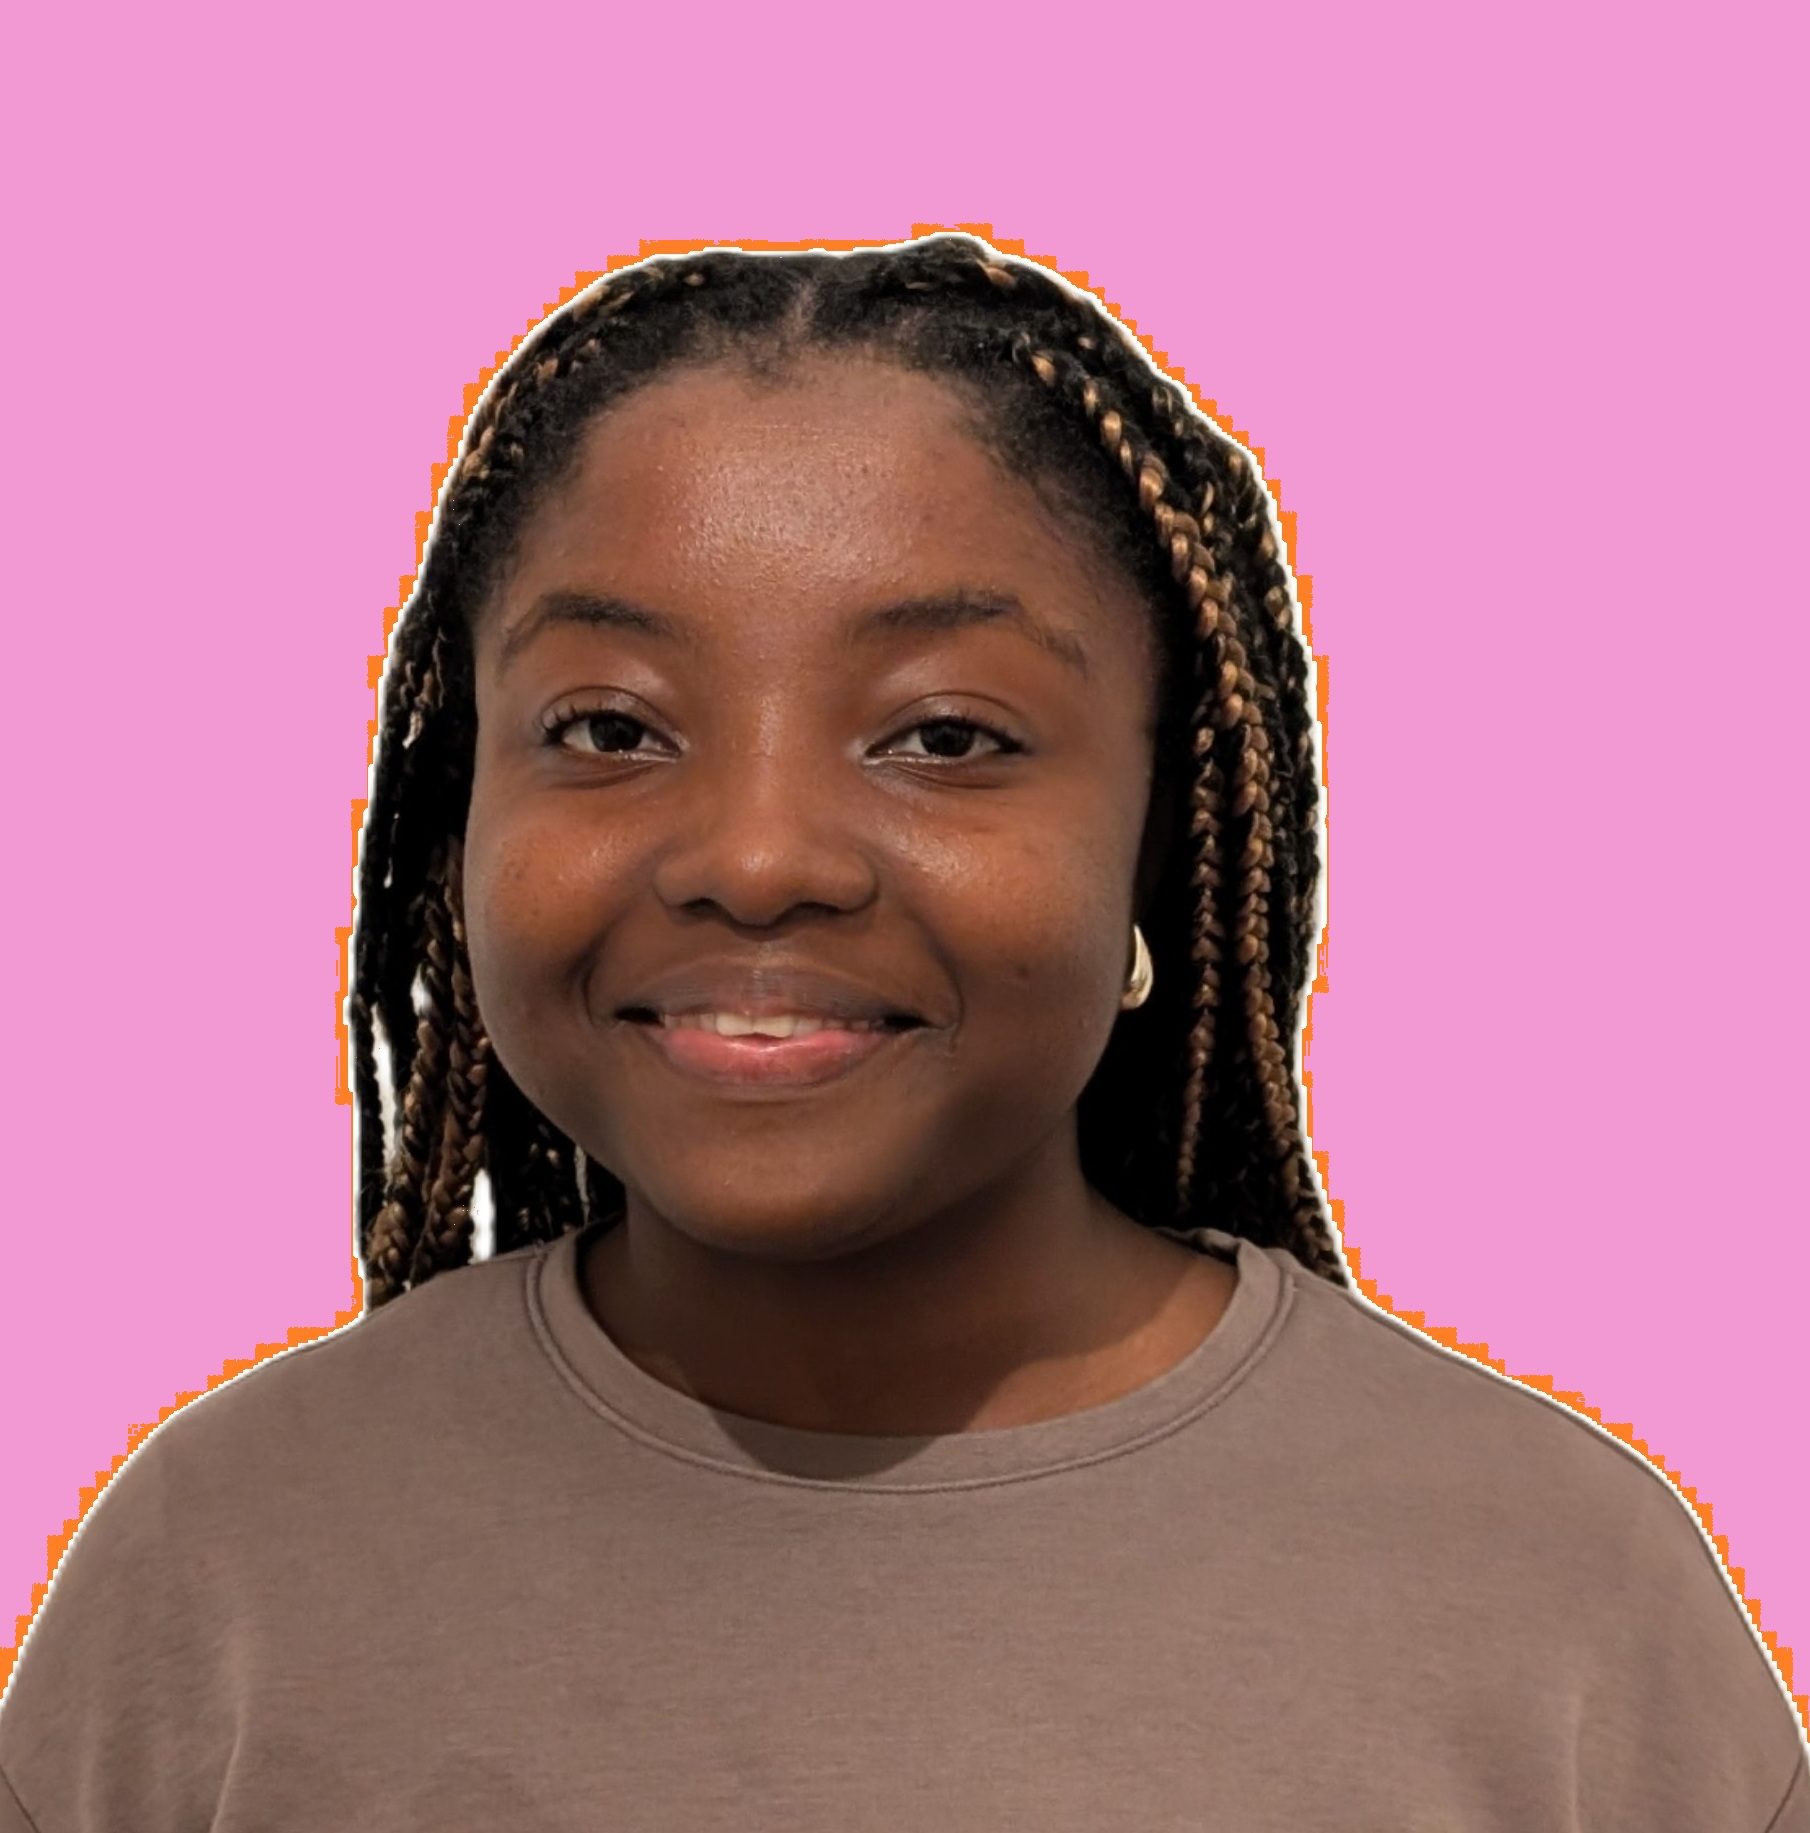
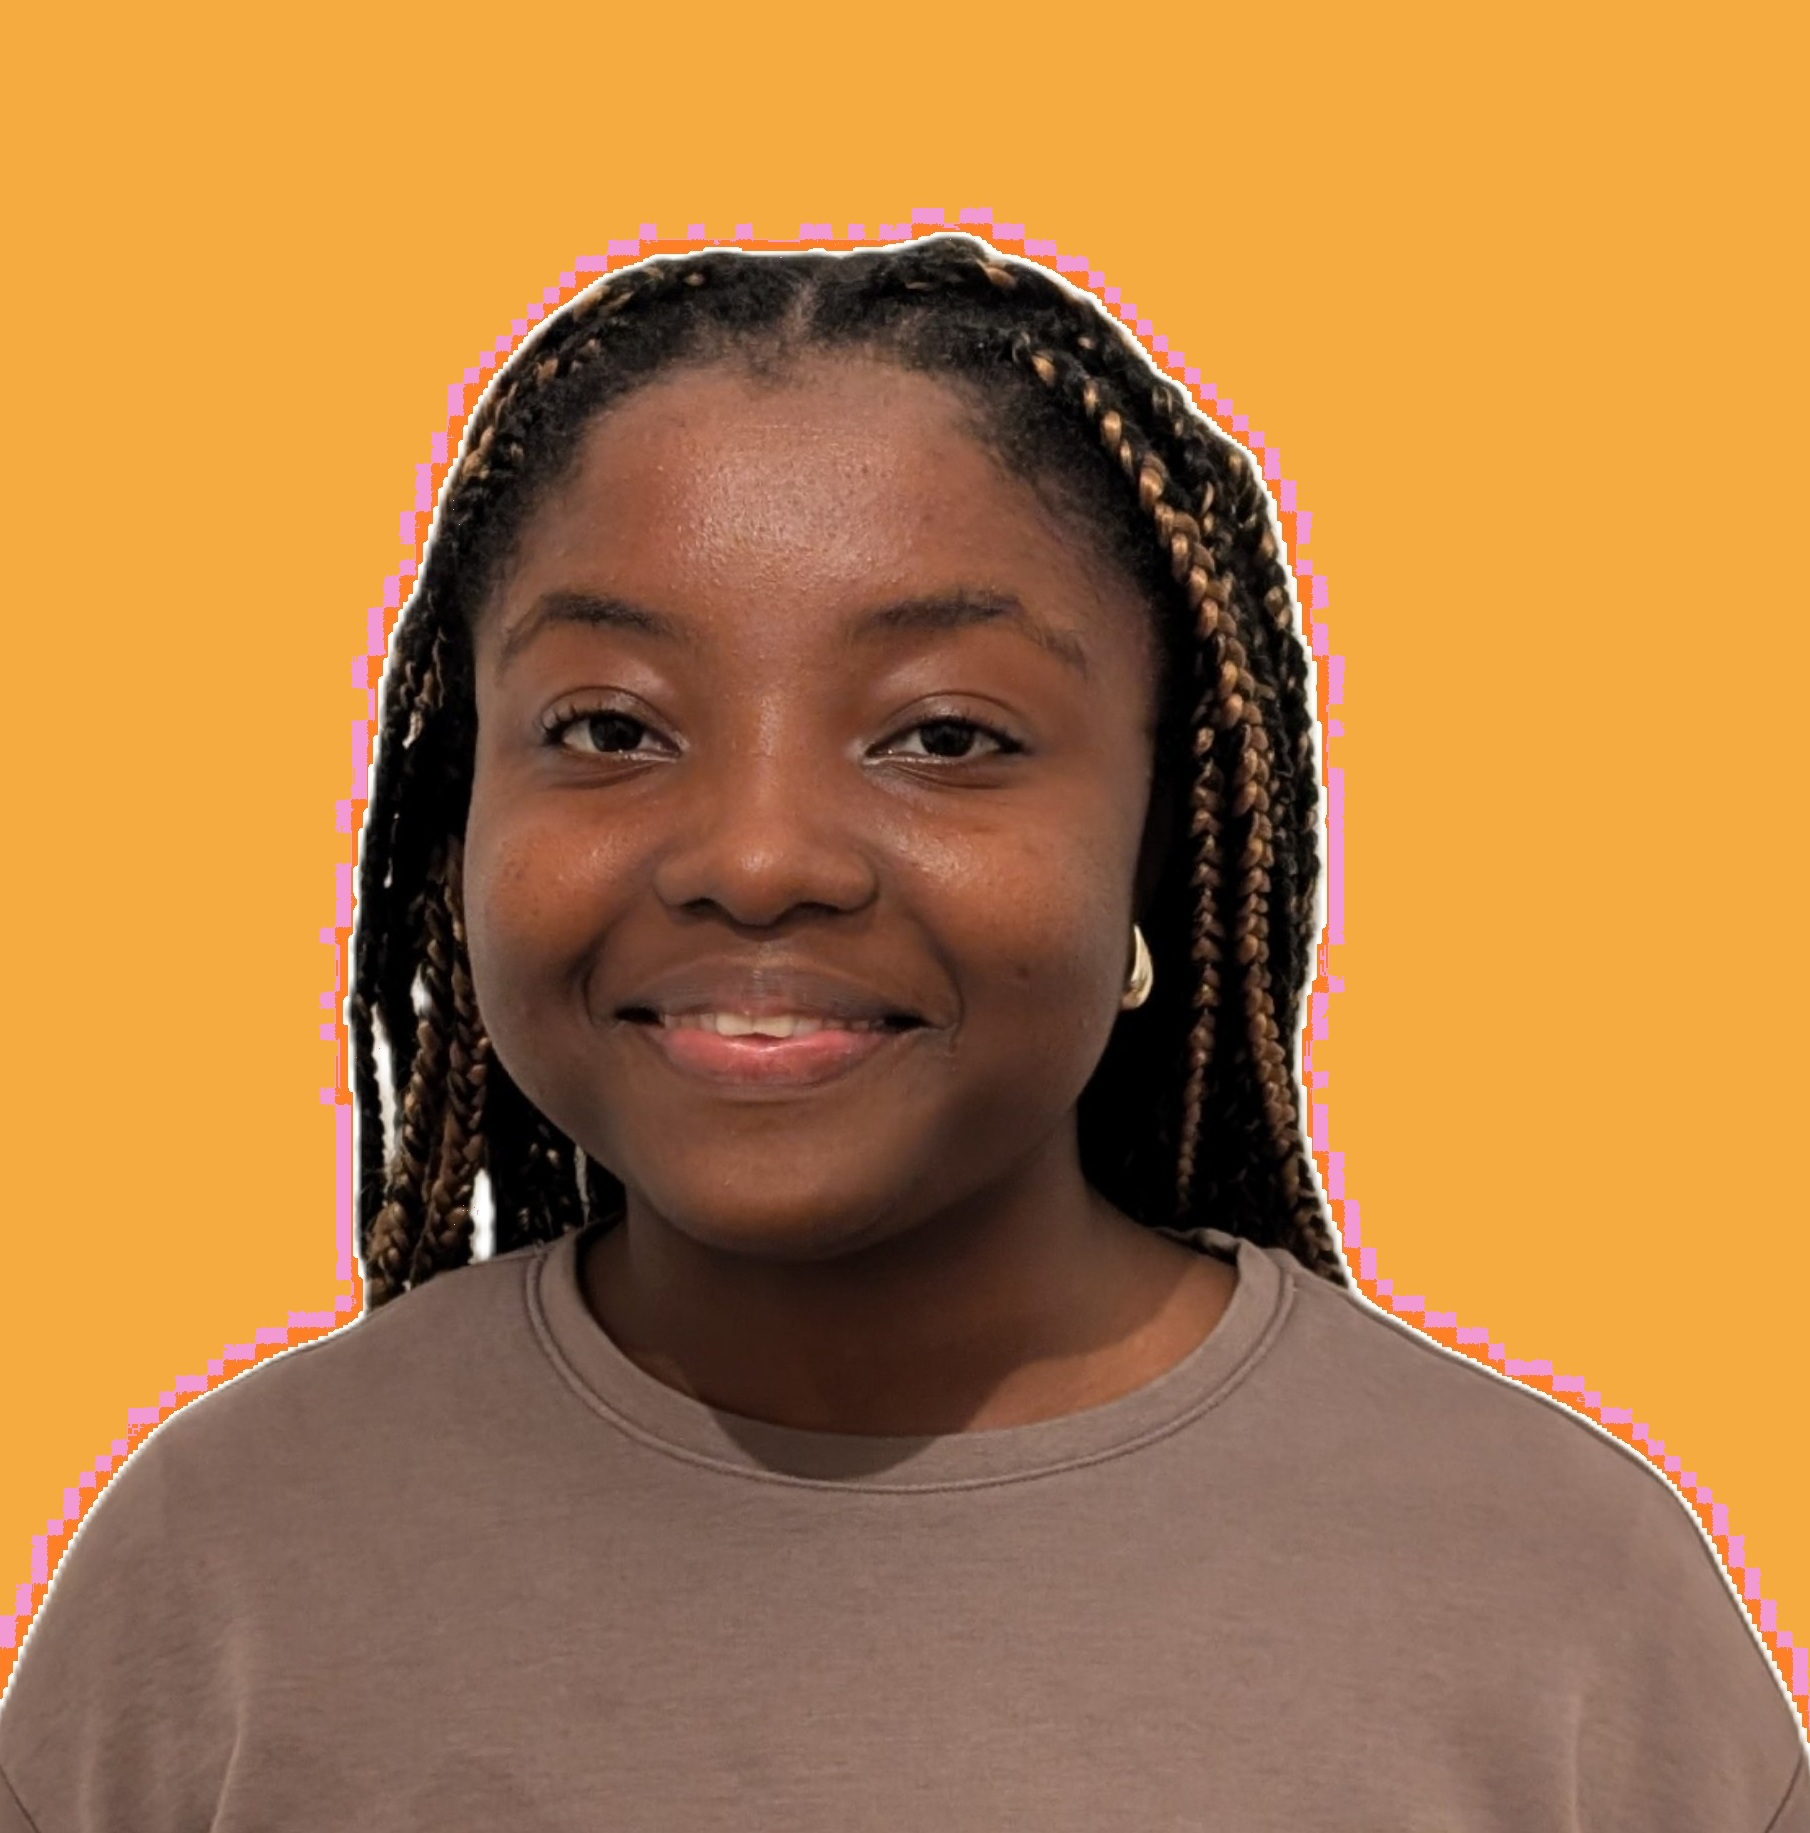
Updated primary and secondary colors

diff --git a/css/styles.css b/css/styles.css
@@ -34,16 +34,16 @@
   --bs-gray-700: #495057;
   --bs-gray-800: #343a40;
   --bs-gray-900: #212529;
-  --bs-primary: #bd5d38;
-  --bs-secondary: #6c757d;
+  --bs-primary: #40a9f5;
+  --bs-secondary: #f5ab40;
   --bs-success: #198754;
   --bs-info: #0dcaf0;
   --bs-warning: #ffc107;
   --bs-danger: #dc3545;
   --bs-light: #f8f9fa;
   --bs-dark: #212529;
-  --bs-primary-rgb: 153, 191, 242;
-  --bs-secondary-rgb: 108, 117, 125;
+  --bs-primary-rgb: rgb(64, 169, 245);
+  --bs-secondary-rgb: rgb(245, 171, 64);
   --bs-success-rgb: 25, 135, 84;
   --bs-info-rgb: 13, 202, 240;
   --bs-warning-rgb: 255, 193, 7;
